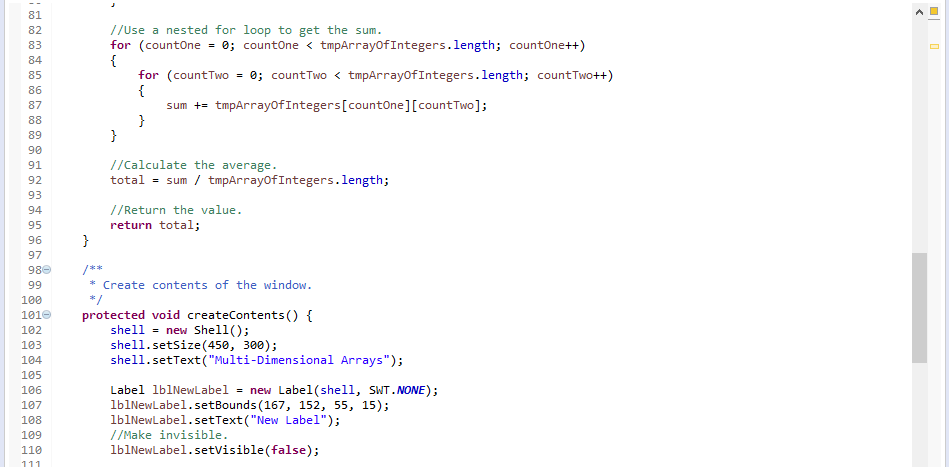
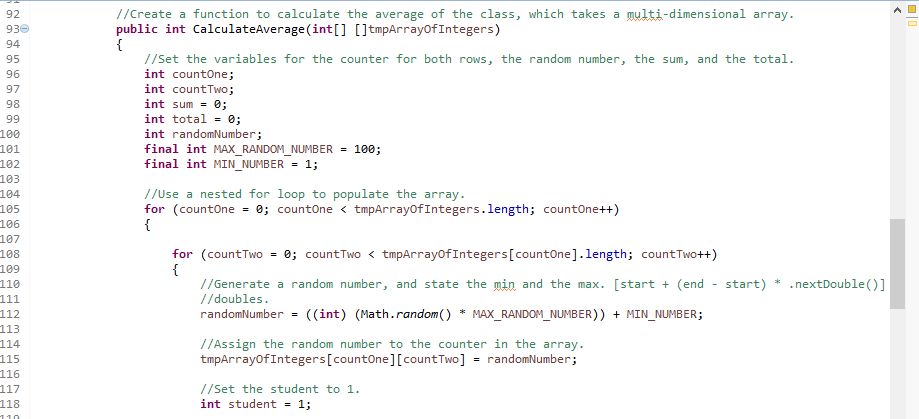
Updates
Added listbox
Updated code

diff --git a/src/MultiDimensionalArrays.java b/src/MultiDimensionalArrays.java
@@ -17,6 +17,7 @@ import org.eclipse.swt.events.SelectionEvent;
 //import the random class.
 import java.util.Random;
 import org.eclipse.swt.widgets.Label;
+import org.eclipse.swt.widgets.List;
 
 public class MultiDimensionalArrays {
 
@@ -50,50 +51,6 @@ public class MultiDimensionalArrays {
 		}
 	}
 	
-	//Create a function to calculate the average of the class, which takes a multi-dimensional array.
-	public int CalculateAverage(int[] []tmpArrayOfIntegers)
-	{
-		//Set the variables for the counter for both rows, the random number, the sum, and the total.
-		int countOne;
-		int countTwo;
-		int sum = 0;
-		int total = 0;
-		int randomNumber;
-		final int MAX_RANDOM_NUMBER = 99;
-		final int MIN_NUMBER = 1;
-		
-		//Generate a random number, and state the min and the max. [start + (end - start) * .nextDouble()] This is for
-		//doubles.
-		//Random randomNumberGenerator = new Random();
-		//randomNumber = MIN_NUMBER + (MAX_RANDOM_NUMBER - MIN_NUMBER) * randomNumberGenerator.nextDouble();
-		randomNumber = ((int) (Math.random() * MAX_RANDOM_NUMBER)) + MIN_NUMBER;
-		
-		//Use a nested for loop to populate the array.
-		for (countOne = 0; countOne < tmpArrayOfIntegers.length; countOne++)
-		{
-			
-			for (countTwo = 0; countTwo < tmpArrayOfIntegers[countOne].length; countTwo++)
-			{
-				//Assign the random number to the counter in the array.
-				tmpArrayOfIntegers[countOne][countTwo] = randomNumber;
-			}
-		}
-		
-		//Use a nested for loop to get the sum.
-		for (countOne = 0; countOne < tmpArrayOfIntegers.length; countOne++)
-		{
-			for (countTwo = 0; countTwo < tmpArrayOfIntegers.length; countTwo++)
-			{
-				sum += tmpArrayOfIntegers[countOne][countTwo];
-			}
-		}
-		
-		//Calculate the average.
-		total = sum / tmpArrayOfIntegers.length;
-		
-		//Return the value.
-		return total;
-	}
 
 	/**
 	 * Create contents of the window.
@@ -104,10 +61,13 @@ public class MultiDimensionalArrays {
 		shell.setText("Multi-Dimensional Arrays");
 		
 		Label lblNewLabel = new Label(shell, SWT.NONE);
-		lblNewLabel.setBounds(167, 152, 55, 15);
+		lblNewLabel.setBounds(143, 236, 55, 15);
 		lblNewLabel.setText("New Label");
 		//Make invisible.
 		lblNewLabel.setVisible(false);
+		
+		List lstAverage = new List(shell, SWT.BORDER);
+		lstAverage.setBounds(87, 92, 234, 138);
 		
 		Button btnCalculate = new Button(shell, SWT.NONE);
 		btnCalculate.addSelectionListener(new SelectionAdapter() {
@@ -128,6 +88,84 @@ public class MultiDimensionalArrays {
 				lblNewLabel.setText("" + average);
 				
 			}
+			
+			//Create a function to calculate the average of the class, which takes a multi-dimensional array.
+			public int CalculateAverage(int[] []tmpArrayOfIntegers)
+			{
+				//Set the variables for the counter for both rows, the random number, the sum, and the total.
+				int countOne;
+				int countTwo;
+				int sum = 0;
+				int total = 0;
+				int randomNumber;
+				final int MAX_RANDOM_NUMBER = 100;
+				final int MIN_NUMBER = 1;
+				
+				//Use a nested for loop to populate the array.
+				for (countOne = 0; countOne < tmpArrayOfIntegers.length; countOne++)
+				{
+					
+					for (countTwo = 0; countTwo < tmpArrayOfIntegers[countOne].length; countTwo++)
+					{
+						//Generate a random number, and state the min and the max. [start + (end - start) * .nextDouble()] This is for
+						//doubles.
+						randomNumber = ((int) (Math.random() * MAX_RANDOM_NUMBER)) + MIN_NUMBER;
+						
+						//Assign the random number to the counter in the array.
+						tmpArrayOfIntegers[countOne][countTwo] = randomNumber;
+						
+						//Set the student to 1.
+						int student = 1;
+						
+						//If the first counter is 0,
+						if (countOne == 0)
+						{
+							//The student # is 1.
+							student = 1;
+						}
+						//Or 1,
+						else if (countOne == 1)
+						{
+							//The student # is 2.
+							student = 2;
+						}
+						//Or 2,
+						else if (countOne == 2)
+						{
+							//The student # is 3.
+							student = 3;
+						}
+						//Or 3.
+						else if (countOne == 3)
+						{
+							//The student # is 4.
+							student = 4;
+						}
+						
+						//Populate the list box with the student number and their grade from the tmpArray at the 1st and
+						//second counter.
+						lstAverage.add("Student: # " + student + " Grade: " + tmpArrayOfIntegers[countOne][countTwo]);
+						
+						System.out.println(randomNumber);
+					}
+				}
+				
+				//Use a nested for loop to get the sum.
+				for (countOne = 0; countOne < tmpArrayOfIntegers.length; countOne++)
+				{
+					for (countTwo = 0; countTwo < tmpArrayOfIntegers[countOne].length; countTwo++)
+					{
+						sum += tmpArrayOfIntegers[countOne][countTwo];
+					}
+				}
+				
+				//Calculate the average.
+				total = sum / 24;
+				
+				//Return the value.
+				return total;
+			}
+			
 		});
 		btnCalculate.setBounds(116, 61, 182, 25);
 		btnCalculate.setText("Calculate");
@@ -137,7 +175,7 @@ public class MultiDimensionalArrays {
 		lblClickTheButton.setText("Click the button to populate an array and get the average.");
 		
 		Label lblTheAverageIs = new Label(shell, SWT.NONE);
-		lblTheAverageIs.setBounds(49, 152, 88, 15);
+		lblTheAverageIs.setBounds(49, 236, 88, 15);
 		lblTheAverageIs.setText("The average is:");
 		
 
